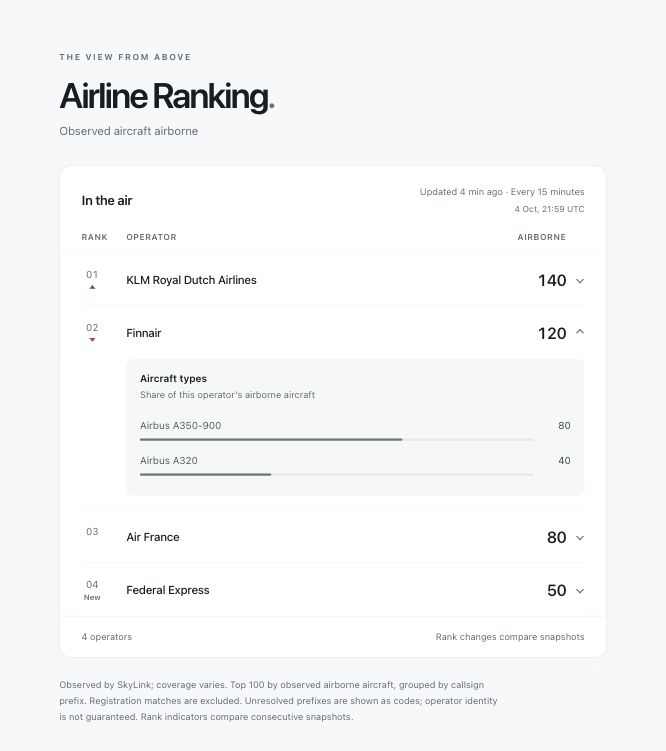
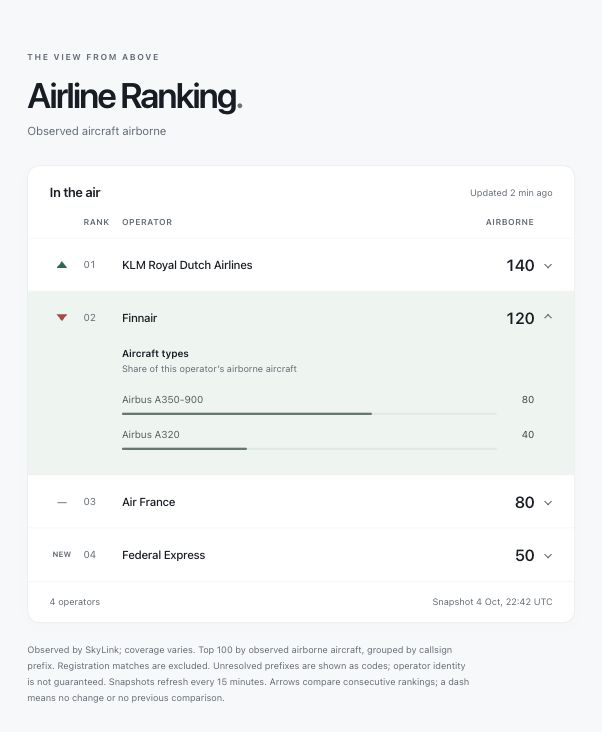
Unify row states and separate rank movement

diff --git a/src/styles.css b/src/styles.css
@@ -12,30 +12,33 @@ h1 { font-size: clamp(32px, 6vw, 46px); line-height: 1.12; letter-spacing: -.055
 .board-header { position: sticky; top: 0; z-index: 1; background: #fff; border-radius: 16px 16px 0 0; border-bottom: 1px solid #e5e8eb; }
 .board-heading { display: flex; align-items: center; justify-content: space-between; gap: 16px; padding: 24px 28px 22px; }
 h2 { margin: 0; font-size: 17px; font-weight: 600; letter-spacing: -.02em; }
-.snapshot-status { display: flex; flex-direction: column; gap: 5px; text-align: right; color: #626c76; font-size: 12px; line-height: 1.5; }
-.snapshot-status time { font-size: 11px; }
-.column-headings, .airline-toggle { display: grid; grid-template-columns: 46px minmax(0, 1fr) 80px 12px; column-gap: 12px; align-items: center; }
+.snapshot-status { text-align: right; color: #626c76; font-size: 12px; line-height: 1.5; }
+.column-headings, .airline-toggle { display: grid; grid-template-columns: 32px 38px minmax(0, 1fr) 80px 12px; column-gap: 12px; align-items: center; }
 .column-headings { padding: 0 28px 14px; color: #626c76; font-size: 11px; letter-spacing: .06em; font-weight: 600; }
-.column-headings > :nth-child(3) { text-align: right; }
-ol { list-style: none; padding: 0 28px; margin: 0; }
+.column-headings > :nth-child(4) { text-align: right; }
+ol { list-style: none; padding: 0; margin: 0; }
 li { position: relative; border-bottom: 1px solid #eef0f2; background: white; }
 li:last-child { border-bottom: 0; }
-.airline-toggle { width: 100%; min-height: 68px; padding: 0; border: 0; background: transparent; color: inherit; font: inherit; text-align: left; cursor: pointer; border-radius: 6px; }
-.airline-toggle:hover { background: #f3f6f5; }
-.airline-toggle:focus-visible { outline: 2px solid #617a70; outline-offset: 2px; }
-.rank { display: flex; flex-direction: column; align-items: center; justify-self: start; min-width: 28px; gap: 3px; color: #626c76; font-size: 13px; line-height: 16px; font-variant-numeric: tabular-nums; }
-.rank-indicator { display: flex; align-items: center; justify-content: center; height: 12px; }
-.rank-caret { width: 0; height: 0; border-left: 4px solid transparent; border-right: 4px solid transparent; }
-.rank-up { border-bottom: 5px solid #176957; }
-.rank-down { border-top: 5px solid #b44242; }
-.rank-new { font-size: 10px; line-height: 12px; font-weight: 600; }
+.airline-toggle { width: 100%; min-height: 68px; padding: 0 28px; border: 0; background: transparent; color: inherit; font: inherit; text-align: left; cursor: pointer; }
+li.is-expanded { background: #edf4ef; }
+@media (hover: hover) {
+  li:hover { background: #edf4ef; }
+}
+.airline-toggle:focus-visible { outline: 2px solid #617a70; outline-offset: -3px; }
+.rank { color: #626c76; font-size: 13px; line-height: 1.45; font-variant-numeric: tabular-nums; }
+.rank-indicator { display: flex; align-items: center; justify-content: center; }
+.rank-caret { width: 0; height: 0; border-left: 7px solid transparent; border-right: 7px solid transparent; }
+.rank-up { border-bottom: 9px solid #176957; }
+.rank-down { border-top: 9px solid #b44242; }
+.rank-new { font-size: 10px; line-height: 1; font-weight: 650; color: #626c76; }
+.rank-unchanged { color: #626c76; font-size: 15px; }
 .airline-name { font-size: 15px; font-weight: 500; letter-spacing: -.015em; line-height: 1.45; padding: 14px 0; overflow-wrap: anywhere; }
 .count { justify-self: end; font-size: 21px; line-height: 1.5; font-weight: 550; letter-spacing: -.025em; font-variant-numeric: tabular-nums; padding: 2px 4px; margin-right: -4px; border-radius: 5px; }
 .chevron { justify-self: center; width: 7px; height: 7px; border-right: 1.5px solid #626c76; border-bottom: 1.5px solid #626c76; transform: rotate(45deg); transition: transform 180ms ease; }
 [aria-expanded="true"] .chevron { transform: rotate(225deg); }
 .aircraft-details { display: grid; grid-template-rows: 1fr; }
 .details-content { min-height: 0; overflow: hidden; }
-.details-panel { margin: 0 0 18px 58px; padding: 18px; background: #f5f8f6; border-radius: 10px; }
+.details-panel { padding: 4px 52px 24px 122px; }
 h3 { margin: 0 0 4px; font-size: 13px; font-weight: 600; }
 .details-note { margin: 0 0 14px; color: #626c76; font-size: 12px; line-height: 1.5; }
 .aircraft-details dl { margin: 0; }
@@ -58,14 +61,14 @@ h3 { margin: 0 0 4px; font-size: 13px; font-weight: 600; }
   html { scroll-padding-top: 230px; }
   main { padding: 38px 12px 28px; }
   .page-header { margin-bottom: 28px; padding: 0 4px; }
-  .board-heading { align-items: flex-start; flex-direction: column; gap: 10px; padding: 20px 14px; }
+  .board-heading { gap: 10px; padding: 20px 12px; }
   .snapshot-status { text-align: left; }
-  .column-headings { padding: 0 14px 12px; font-size: 10px; letter-spacing: .02em; }
-  ol { padding: 0 14px; }
-  .column-headings, .airline-toggle { grid-template-columns: 32px minmax(0, 1fr) 54px 12px; column-gap: 8px; }
+  .column-headings { padding: 0 12px 12px; font-size: 10px; letter-spacing: .02em; }
+  .airline-toggle { padding: 0 12px; }
+  .column-headings, .airline-toggle { grid-template-columns: 28px 26px minmax(0, 1fr) 56px 10px; column-gap: 6px; }
   .airline-name { font-size: 14px; }
   .count { font-size: 19px; }
-  .details-panel { margin-left: 0; padding: 14px; }
+  .details-panel { padding: 4px 28px 22px 28px; }
   .board-footer { padding: 15px 14px; flex-wrap: wrap; }
   .update-warning { margin-left: 14px; margin-right: 14px; }
 }

diff --git a/src/app.html b/src/app.html
@@ -10,9 +10,8 @@
       <div class="board-heading">
         <h2>In the air</h2>
         <div class="snapshot-status">
-          @if (snapshot(); as currentSnapshot) {
-            <span>Updated {{ snapshotAge() }} <span aria-hidden="true">·</span> Every 15 minutes</span>
-            <time [attr.datetime]="currentSnapshot.updatedAt">{{ currentSnapshot.updatedAt | date: 'd MMM, HH:mm' : 'UTC' }} UTC</time>
+          @if (snapshot()) {
+            <span>Updated {{ snapshotAge() }}</span>
           } @else {
             <span>Every 15 minutes</span>
           }
@@ -23,36 +22,38 @@
       }
       @if (snapshot()) {
         <div class="column-headings" aria-hidden="true">
-          <span>RANK</span><span>OPERATOR</span><span>AIRBORNE</span><span></span>
+          <span></span><span>RANK</span><span>OPERATOR</span><span>AIRBORNE</span><span></span>
         </div>
       }
     </div>
     @if (snapshot(); as currentSnapshot) {
       <ol>
         @for (airline of rows(); track airline.id; let rank = $index) {
-          <li #row [attr.data-id]="airline.id">
+          <li #row [attr.data-id]="airline.id" [class.is-expanded]="expandedAirlineId() === airline.id">
             <button class="airline-toggle" type="button" (click)="toggleAirline(airline)"
               [attr.aria-expanded]="expandedAirlineId() === airline.id"
               [attr.aria-controls]="'types-' + airline.id">
-              <span class="rank">
-                <span class="visually-hidden">Rank </span><span>{{ rank + 1 | number: '2.0-0' }}</span>
-                <span class="rank-indicator">
-                  @switch (airline.rankMovement) {
-                    @case ('up') {
-                      <span class="rank-caret rank-up" aria-hidden="true"></span>
-                      <span class="visually-hidden">Rank increased since the previous snapshot.</span>
-                    }
-                    @case ('down') {
-                      <span class="rank-caret rank-down" aria-hidden="true"></span>
-                      <span class="visually-hidden">Rank decreased since the previous snapshot.</span>
-                    }
-                    @case ('new') {
-                      <span class="rank-new" aria-hidden="true">New</span>
-                      <span class="visually-hidden">New to the top 100 since the previous snapshot.</span>
-                    }
+              <span class="rank-indicator">
+                @switch (airline.rankMovement) {
+                  @case ('up') {
+                    <span class="rank-caret rank-up" aria-hidden="true"></span>
+                    <span class="visually-hidden">Rank increased since the previous snapshot.</span>
                   }
-                </span>
+                  @case ('down') {
+                    <span class="rank-caret rank-down" aria-hidden="true"></span>
+                    <span class="visually-hidden">Rank decreased since the previous snapshot.</span>
+                  }
+                  @case ('new') {
+                    <span class="rank-new" aria-hidden="true">NEW</span>
+                    <span class="visually-hidden">New to the top 100 since the previous snapshot.</span>
+                  }
+                  @default {
+                    <span class="rank-unchanged" aria-hidden="true">—</span>
+                    <span class="visually-hidden">No rank movement shown.</span>
+                  }
+                }
               </span>
+              <span class="rank"><span class="visually-hidden">Rank </span>{{ rank + 1 | number: '2.0-0' }}</span>
               <span class="airline-name">{{ airline.name }}</span>
               <span class="count" [attr.aria-label]="airline.count + ' aircraft airborne'">
                 <span aria-hidden="true">{{ (expandedAirlineId() === airline.id ? airline.count : displayedCounts()[airline.id]) | number }}</span>
@@ -91,7 +92,7 @@
       </ol>
       <div class="board-footer">
         <span>{{ currentSnapshot.airlines.length }} operators</span>
-        <span>Rank changes compare snapshots</span>
+        <span>Snapshot <time [attr.datetime]="currentSnapshot.updatedAt">{{ currentSnapshot.updatedAt | date: 'd MMM, HH:mm' : 'UTC' }} UTC</time></span>
       </div>
     } @else if (error()) {
       <p class="empty-state" role="alert">{{ error() }}</p>
@@ -100,6 +101,6 @@
     }
   </section>
 
-  <p class="method-note">Observed by SkyLink; coverage varies. Top 100 by observed airborne aircraft, grouped by callsign prefix. Registration matches are excluded. Unresolved prefixes are shown as codes; operator identity is not guaranteed. Rank indicators compare consecutive snapshots.</p>
+  <p class="method-note">Observed by SkyLink; coverage varies. Top 100 by observed airborne aircraft, grouped by callsign prefix. Registration matches are excluded. Unresolved prefixes are shown as codes; operator identity is not guaranteed. Snapshots refresh every 15 minutes. Arrows compare consecutive rankings; a dash means no change or no previous comparison.</p>
   <p class="visually-hidden" role="status">{{ announcement() }}</p>
 </main>

diff --git a/README.md b/README.md
@@ -34,11 +34,11 @@ npm start
 
 Open http://127.0.0.1:4200. Both services listen on loopback only. Angular proxies `/api/ranking` to the backend on port 3000; the API key stays on the backend.
 
-The browser checks the cache every minute. The sticky leaderboard header shows the snapshot age, exact UTC time, and any delay notice while scrolling; the relative age updates on each browser check. Row changes and counts animate briefly; reduced-motion preferences disable animation. If an update fails, the last successful ranking and its original timestamp remain visible with a delay notice. Before the first successful snapshot, the UI shows an unavailable message and retries automatically.
+The browser checks the cache every minute. The sticky leaderboard header shows the snapshot age and any delay notice while scrolling; the exact UTC timestamp is in the footer, and the relative age updates on each browser check. Row changes and counts animate briefly; reduced-motion preferences disable animation. If an update fails, the last successful ranking and its original timestamp remain visible with a delay notice. Before the first successful snapshot, the UI shows an unavailable message and retries automatically.
 
 Click an airline to expand its aircraft-type breakdown; only one row is expanded at a time. The same cached snapshot supplies both the total and its breakdown, without extra provider requests. The expanded airline stays open when the ranking changes, and its total updates immediately with its breakdown. Other totals retain their brief count animation with a neutral update highlight. Breakdown bars show each type’s share of that operator’s total, alongside the exact counts.
 
-Rank indicators compare each operator's position with the previous successful, distinct snapshot: a green upward caret for a higher rank, a red downward caret for a lower rank, and “New” for an operator absent from the previous top 100 (including returning operators). Unchanged ranks show nothing. Equal aircraft counts still use prefix order, so indicators reflect row position rather than count changes. Screen-reader text describes each indicator.
+Rank indicators compare each operator's position with the previous successful, distinct snapshot: a green upward caret for a higher rank, a red downward caret for a lower rank, and “New” for an operator absent from the previous top 100 (including returning operators). A dash marks unchanged ranks or an unavailable comparison (including the first snapshot). Movement has its own column before the rank. Equal aircraft counts still use prefix order, so indicators reflect row position rather than count changes. Screen-reader text describes each indicator.
 
 Comparison happens in the backend, so browser reloads and different viewers receive the same indicators. Repeated timestamps, name-only updates and failed fetches do not advance the comparison. After an outage, the next successful snapshot compares with the last successful one, even if the gap exceeds 15 minutes. Comparison state is held only in memory; the first snapshot after a backend restart has no indicators. This feature adds no provider calls or persistent history.
 
